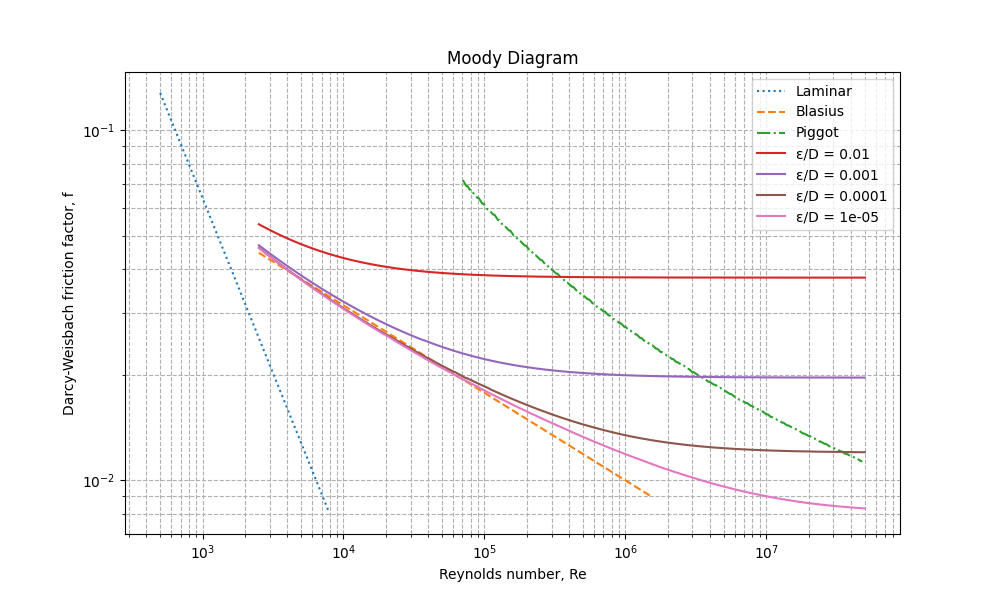
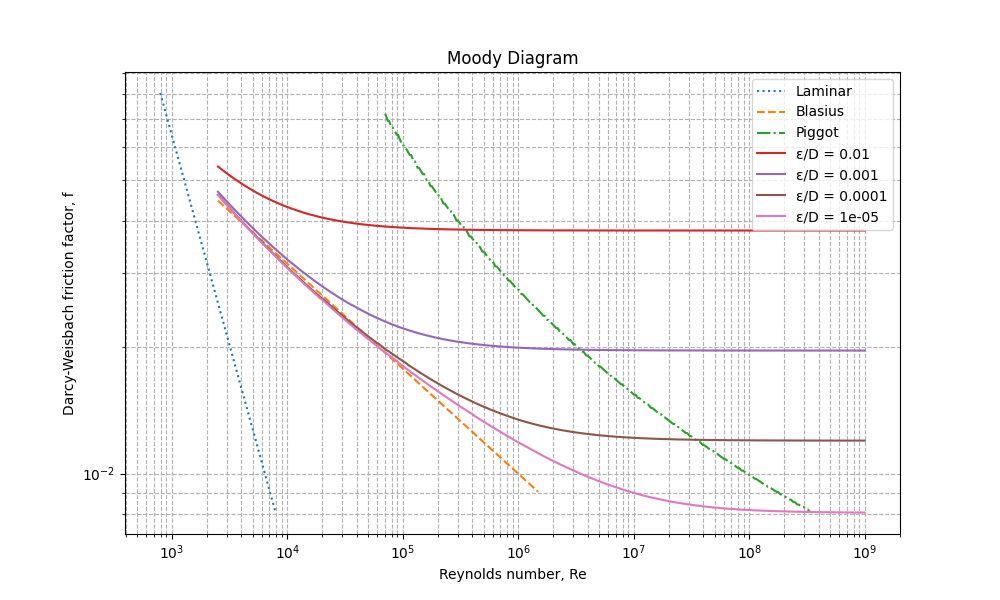
laptop bits

Changed region(s): [[0.062, 0.12, 0.899, 0.93], [0.682, 0.51, 0.775, 0.54], [0.279, 0.9, 0.31, 0.93]]

diff --git a/moody.py b/moody.py
@@ -203,8 +203,8 @@ def plot_diagram(title, filename, plot="loglog"):
     
 # Define the Reynolds number range and relative roughness values
 # only need 10 points for the straight line
-reynolds_laminar = np.logspace(2.7, 3.9, 5) # 10^2.7 = 501, 10^3.4 = 2512
-reynolds = np.logspace(3.4, 7.7, 500) # 10^7.7 = 5e7
+reynolds_laminar = np.logspace(2.9, 3.9, 5) # 10^2.7 = 501, 10^3.4 = 2512
+reynolds = np.logspace(3.4, 9.0, 500) # 10^7.7 = 5e7
 relative_roughness_values = [0.01, 0.001, 0.0001, 0.00001]
 
 fp = piggot()
@@ -213,7 +213,7 @@ plot_diagram('Moody Diagram', 'moody_diagram.png', plot="loglog")
 
 # Plot enlarged diagram
 reynolds_laminar = np.logspace(2.9, 3.4, 5) # 10^2.7 = 501, 10^3.4 = 2512
-reynolds = np.logspace(3.4, 4.0, 500) 
+reynolds = np.logspace(3.4, 5.0, 500) 
 relative_roughness_values = [0.01, 0.003, 0.001]
 
 # fp = piggot() # not in view on the enlarged plot
